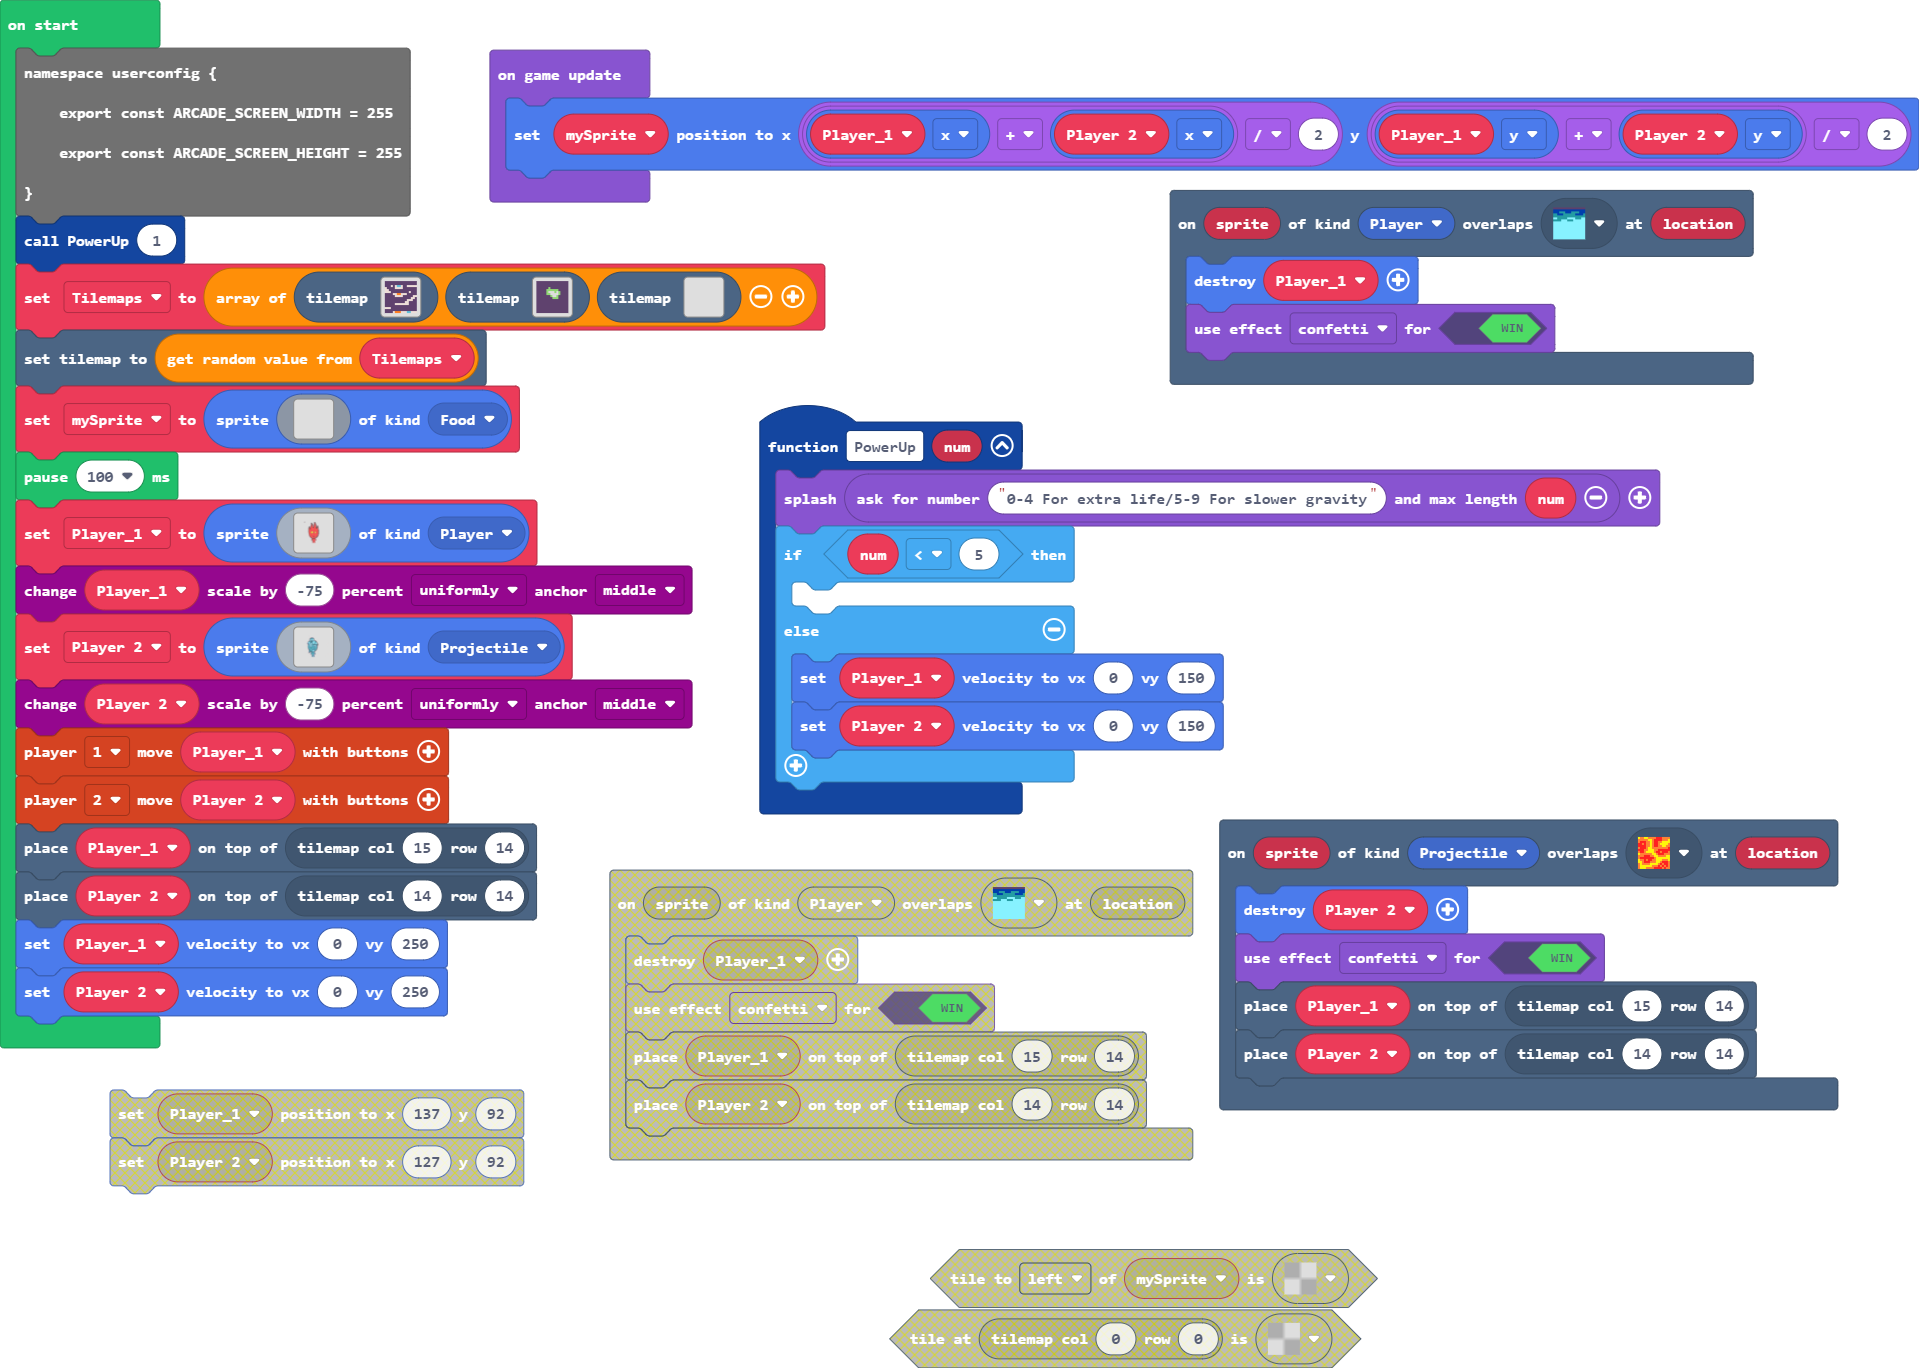
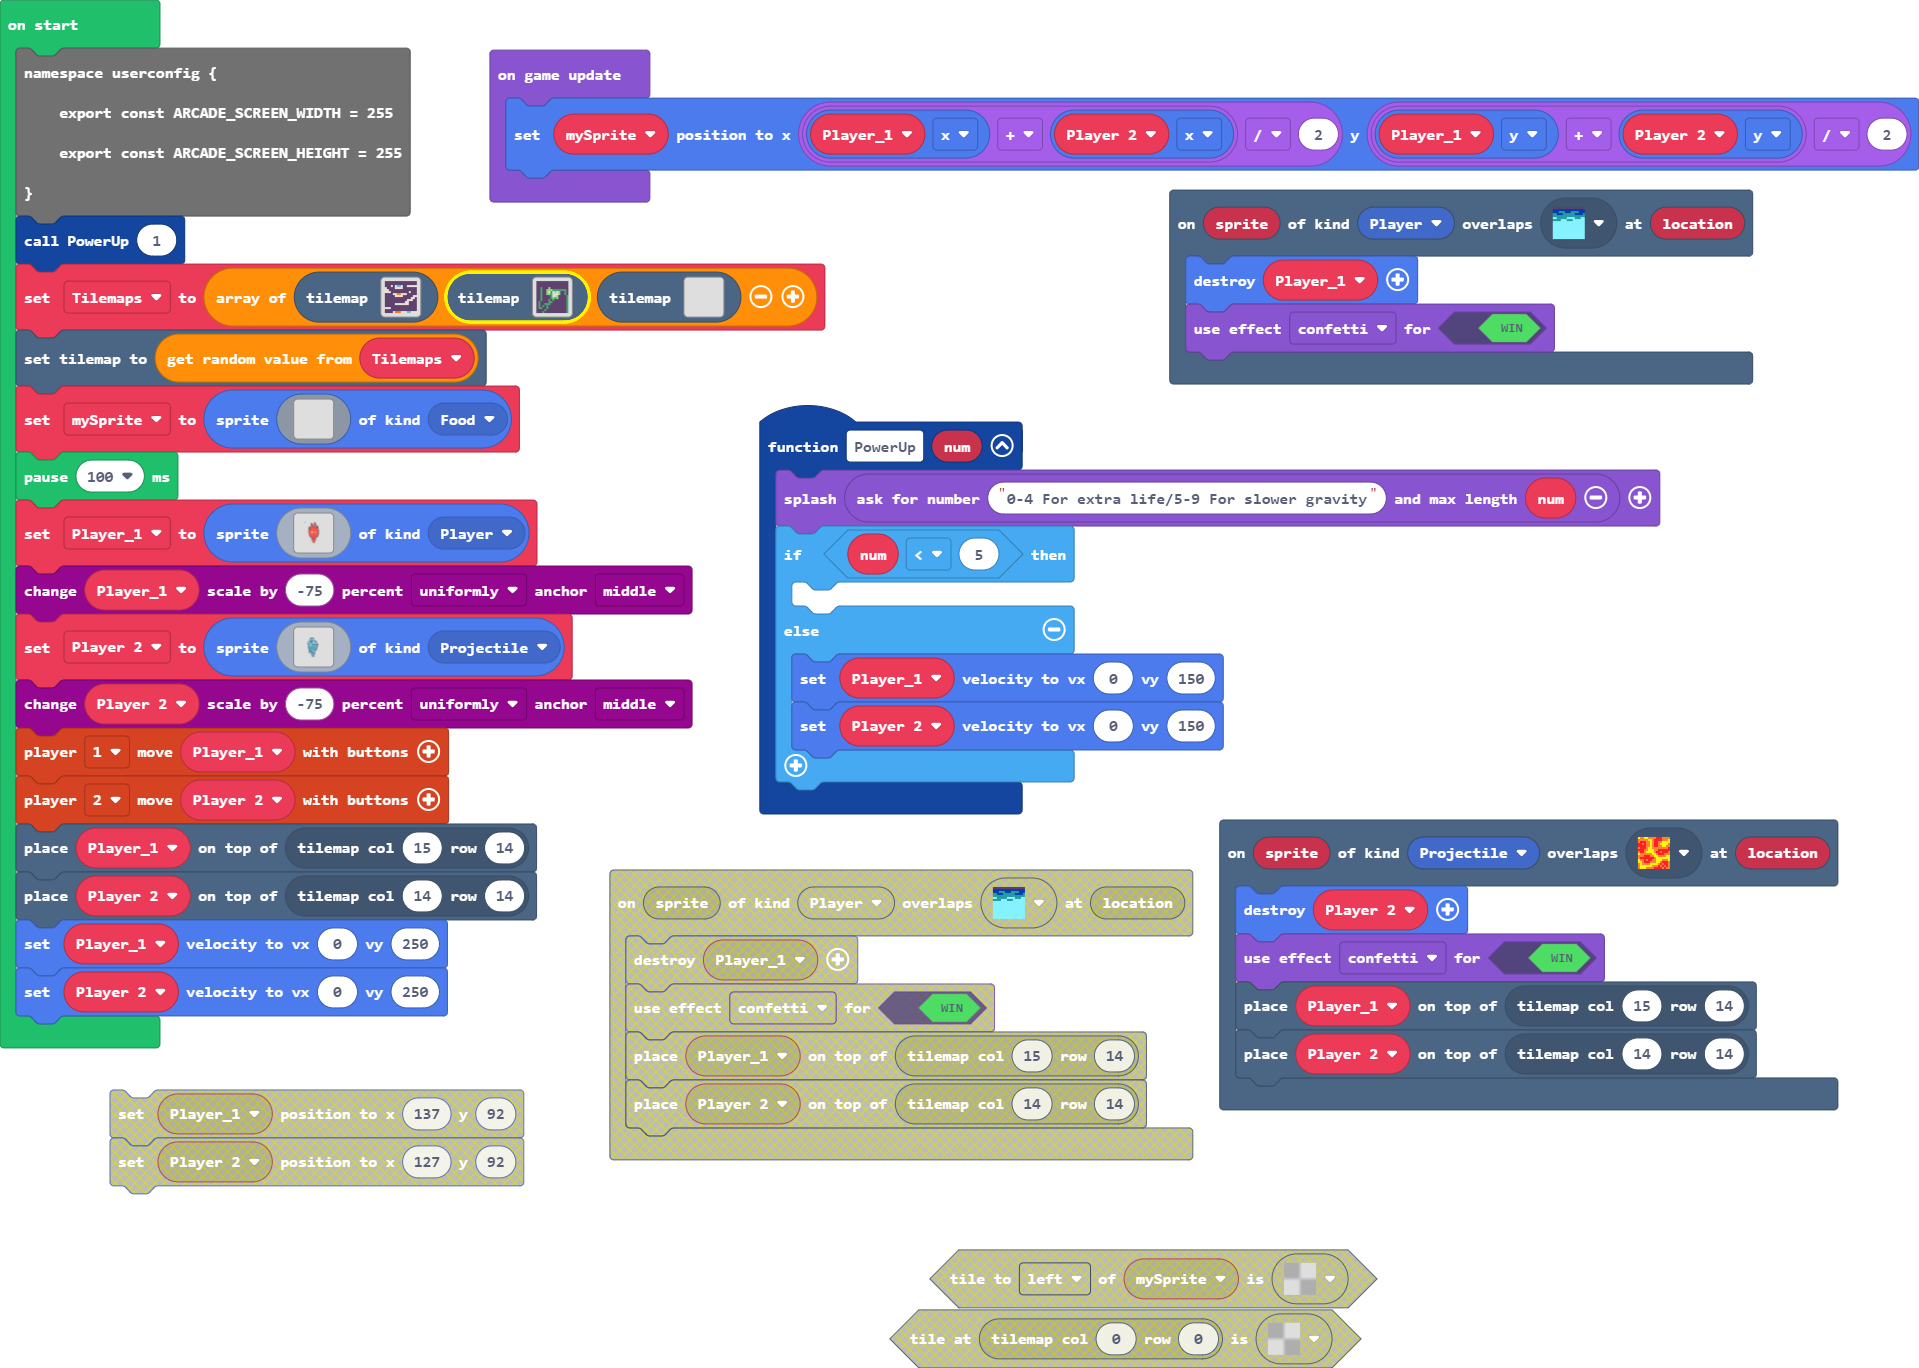
Update main.blocks, main.ts, tilemap.g.jres, tilemap.g.ts

Changed region(s): [[0.4919, 0.8904, 0.7071, 0.9825], [0.2767, 0.1842, 0.3075, 0.2456], [0.6764, 0.2149, 0.7071, 0.2456]]

diff --git a/tilemap.g.ts b/tilemap.g.ts
@@ -142,7 +142,7 @@ namespace myTiles {
 . . . . . . . . . . . . . . . . 
 `, [myTiles.transparency16], TileScale.Sixteen);
             case "level3":
-            case "level3":return tiles.createTilemap(hex`1000100002020202020202020202020202020202020202020202020202020202020202020202020202020202020202020202020202020202020201020202020202020202020202020201010101010102020202020202020202010000000100010202020202020202020101000000000102020202020202020202020100000102020202020202020202020202010101020202020202020202020202020202020202020202020202020202020202020202020202020202020202020202020202020202020202020202020202020202020202020202020202020202020202020202020202020202020202020202020202020202020202020202020202020202020202020202`, img`
+            case "level3":return tiles.createTilemap(hex`1000100002020202020202020202020202020202020202020202020202020202020202020202020202020202020202020202020202020302020201020202020202020202020203020201010103030303030303020202030202010003000100010202030202020302020101030000000102020302020203020202020300000102020202030202030202020203010301020202020302020302020203020302020202020203020302020202030302020202020202030203020203030302020202020202020302030203020302020202020202020203020303020203020202020202020202030202020203020202020202020202020302020203020202020202020202020203`, img`
 . . . . . . . . . . . . . . . . 
 . . . . . . . . . . . . . . . . 
 . . . . . . . . . . . . . . . . 
@@ -159,26 +159,7 @@ namespace myTiles {
 . . . . . . . . . . . . . . . . 
 . . . . . . . . . . . . . . . . 
 . . . . . . . . . . . . . . . . 
-`, [myTiles.transparency16,sprites.castle.tileGrass2,myTiles.tile1], TileScale.Sixteen);
-            case "level8":
-            case "level8":return tiles.createTilemap(hex`1000100000000000000000000000000000000000000000000000000000000000000000000000000000000000000000000000000000000000000000000000000000000000000000000000000000000000000000000000000000000000000000000000000000000000000000000000000000000000000000000000000000000000000000000000000000000000000000000000000000000000000000000000000000000000000000000000000000000000000000000000000000000000000000000000000000000000000000000000000000000000000000000000000000000000000000000000000000000000000000000000000000000000000000000000000000000000`, img`
-. . . . . . . . . . . . . . . . 
-. . . . . . . . . . . . . . . . 
-. . . . . . . . . . . . . . . . 
-. . . . . . . . . . . . . . . . 
-. . . . . . . . . . . . . . . . 
-. . . . . . . . . . . . . . . . 
-. . . . . . . . . . . . . . . . 
-. . . . . . . . . . . . . . . . 
-. . . . . . . . . . . . . . . . 
-. . . . . . . . . . . . . . . . 
-. . . . . . . . . . . . . . . . 
-. . . . . . . . . . . . . . . . 
-. . . . . . . . . . . . . . . . 
-. . . . . . . . . . . . . . . . 
-. . . . . . . . . . . . . . . . 
-. . . . . . . . . . . . . . . . 
-`, [myTiles.transparency16], TileScale.Sixteen);
+`, [myTiles.transparency16,sprites.castle.tileGrass2,myTiles.tile1,sprites.builtin.forestTiles0], TileScale.Sixteen);
             case "level9":
             case "level9":return tiles.createTilemap(hex`1000100000000000000000000000000000000000000000000000000000000000000000000000000000000000000000000000000000000000000000000000000000000000000000000000000000000000000000000000000000000000000000000000000000000000000000000000000000000000000000000000000000000000000000000000000000000000000000000000000000000000000000000000000000000000000000000000000000000000000000000000000000000000000000000000000000000000000000000000000000000000000000000000000000000000000000000000000000000000000000000000000000000000000000000000000000000000`, img`
 . . . . . . . . . . . . . . . . 
@@ -197,9 +178,9 @@ namespace myTiles {
 . . . . . . . . . . . . . . . . 
 . . . . . . . . . . . . . . . . 
 . . . . . . . . . . . . . . . . 
-`, [myTiles.transparency16], TileScale.Sixteen);
-            case "level10":
-            case "level10":return tiles.createTilemap(hex`1000100000000000000000000000000000000000000000000000000000000000000000000000000000000000000000000000000000000000000000000000000000000000000000000000000000000000000000000000000000000000000000000000000000000000000000000000000000000000000000000000000000000000000000000000000000000000000000000000000000000000000000000000000000000000000000000000000000000000000000000000000000000000000000000000000000000000000000000000000000000000000000000000000000000000000000000000000000000000000000000000000000000000000000000000000000000000`, img`
+`, [], -Infinity);
+            case "level8":
+            case "level8":return tiles.createTilemap(hex`1000100000000000000000000000000000000000000000000000000000000000000000000000000000000000000000000000000000000000000000000000000000000000000000000000000000000000000000000000000000000000000000000000000000000000000000000000000000000000000000000000000000000000000000000000000000000000000000000000000000000000000000000000000000000000000000000000000000000000000000000000000000000000000000000000000000000000000000000000000000000000000000000000000000000000000000000000000000000000000000000000000000000000000000000000000000000000`, img`
 . . . . . . . . . . . . . . . . 
 . . . . . . . . . . . . . . . . 
 . . . . . . . . . . . . . . . . 
@@ -216,64 +197,7 @@ namespace myTiles {
 . . . . . . . . . . . . . . . . 
 . . . . . . . . . . . . . . . . 
 . . . . . . . . . . . . . . . . 
-`, [myTiles.transparency16], TileScale.Sixteen);
-            case "level11":
-            case "level11":return tiles.createTilemap(hex`1000100000000000000000000000000000000000000000000000000000000000000000000000000000000000000000000000000000000000000000000000000000000000000000000000000000000000000000000000000000000000000000000000000000000000000000000000000000000000000000000000000000000000000000000000000000000000000000000000000000000000000000000000000000000000000000000000000000000000000000000000000000000000000000000000000000000000000000000000000000000000000000000000000000000000000000000000000000000000000000000000000000000000000000000000000000000000`, img`
-. . . . . . . . . . . . . . . . 
-. . . . . . . . . . . . . . . . 
-. . . . . . . . . . . . . . . . 
-. . . . . . . . . . . . . . . . 
-. . . . . . . . . . . . . . . . 
-. . . . . . . . . . . . . . . . 
-. . . . . . . . . . . . . . . . 
-. . . . . . . . . . . . . . . . 
-. . . . . . . . . . . . . . . . 
-. . . . . . . . . . . . . . . . 
-. . . . . . . . . . . . . . . . 
-. . . . . . . . . . . . . . . . 
-. . . . . . . . . . . . . . . . 
-. . . . . . . . . . . . . . . . 
-. . . . . . . . . . . . . . . . 
-. . . . . . . . . . . . . . . . 
-`, [myTiles.transparency16], TileScale.Sixteen);
-            case "level12":
-            case "level12":return tiles.createTilemap(hex`1000100000000000000000000000000000000000000000000000000000000000000000000000000000000000000000000000000000000000000000000000000000000000000000000000000000000000000000000000000000000000000000000000000000000000000000000000000000000000000000000000000000000000000000000000000000000000000000000000000000000000000000000000000000000000000000000000000000000000000000000000000000000000000000000000000000000000000000000000000000000000000000000000000000000000000000000000000000000000000000000000000000000000000000000000000000000000`, img`
-. . . . . . . . . . . . . . . . 
-. . . . . . . . . . . . . . . . 
-. . . . . . . . . . . . . . . . 
-. . . . . . . . . . . . . . . . 
-. . . . . . . . . . . . . . . . 
-. . . . . . . . . . . . . . . . 
-. . . . . . . . . . . . . . . . 
-. . . . . . . . . . . . . . . . 
-. . . . . . . . . . . . . . . . 
-. . . . . . . . . . . . . . . . 
-. . . . . . . . . . . . . . . . 
-. . . . . . . . . . . . . . . . 
-. . . . . . . . . . . . . . . . 
-. . . . . . . . . . . . . . . . 
-. . . . . . . . . . . . . . . . 
-. . . . . . . . . . . . . . . . 
-`, [myTiles.transparency16], TileScale.Sixteen);
-            case "level13":
-            case "level13":return tiles.createTilemap(hex`1000100000000000000000000000000000000000000000000000000000000000000000000000000000000000000000000000000000000000000000000000000000000000000000000000000000000000000000000000000000000000000000000000000000000000000000000000000000000000000000000000000000000000000000000000000000000000000000000000000000000000000000000000000000000000000000000000000000000000000000000000000000000000000000000000000000000000000000000000000000000000000000000000000000000000000000000000000000000000000000000000000000000000000000000000000000000000`, img`
-. . . . . . . . . . . . . . . . 
-. . . . . . . . . . . . . . . . 
-. . . . . . . . . . . . . . . . 
-. . . . . . . . . . . . . . . . 
-. . . . . . . . . . . . . . . . 
-. . . . . . . . . . . . . . . . 
-. . . . . . . . . . . . . . . . 
-. . . . . . . . . . . . . . . . 
-. . . . . . . . . . . . . . . . 
-. . . . . . . . . . . . . . . . 
-. . . . . . . . . . . . . . . . 
-. . . . . . . . . . . . . . . . 
-. . . . . . . . . . . . . . . . 
-. . . . . . . . . . . . . . . . 
-. . . . . . . . . . . . . . . . 
-. . . . . . . . . . . . . . . . 
-`, [myTiles.transparency16], TileScale.Sixteen);
+`, [], -Infinity);
         }
         return null;
     })

diff --git a/main.ts b/main.ts
@@ -24,7 +24,7 @@ namespace userconfig {
     export const ARCADE_SCREEN_HEIGHT = 255
 }
 PowerUp(1)
-let Tilemaps = [tilemap`level 1`, tilemap`level3`, tilemap`level12`]
+let Tilemaps = [tilemap`level 1`, tilemap`level3`, tilemap`level8`]
 tiles.setCurrentTilemap(Tilemaps._pickRandom())
 let mySprite = sprites.create(img`
     . . . . . . . . . . . . . . . . 
